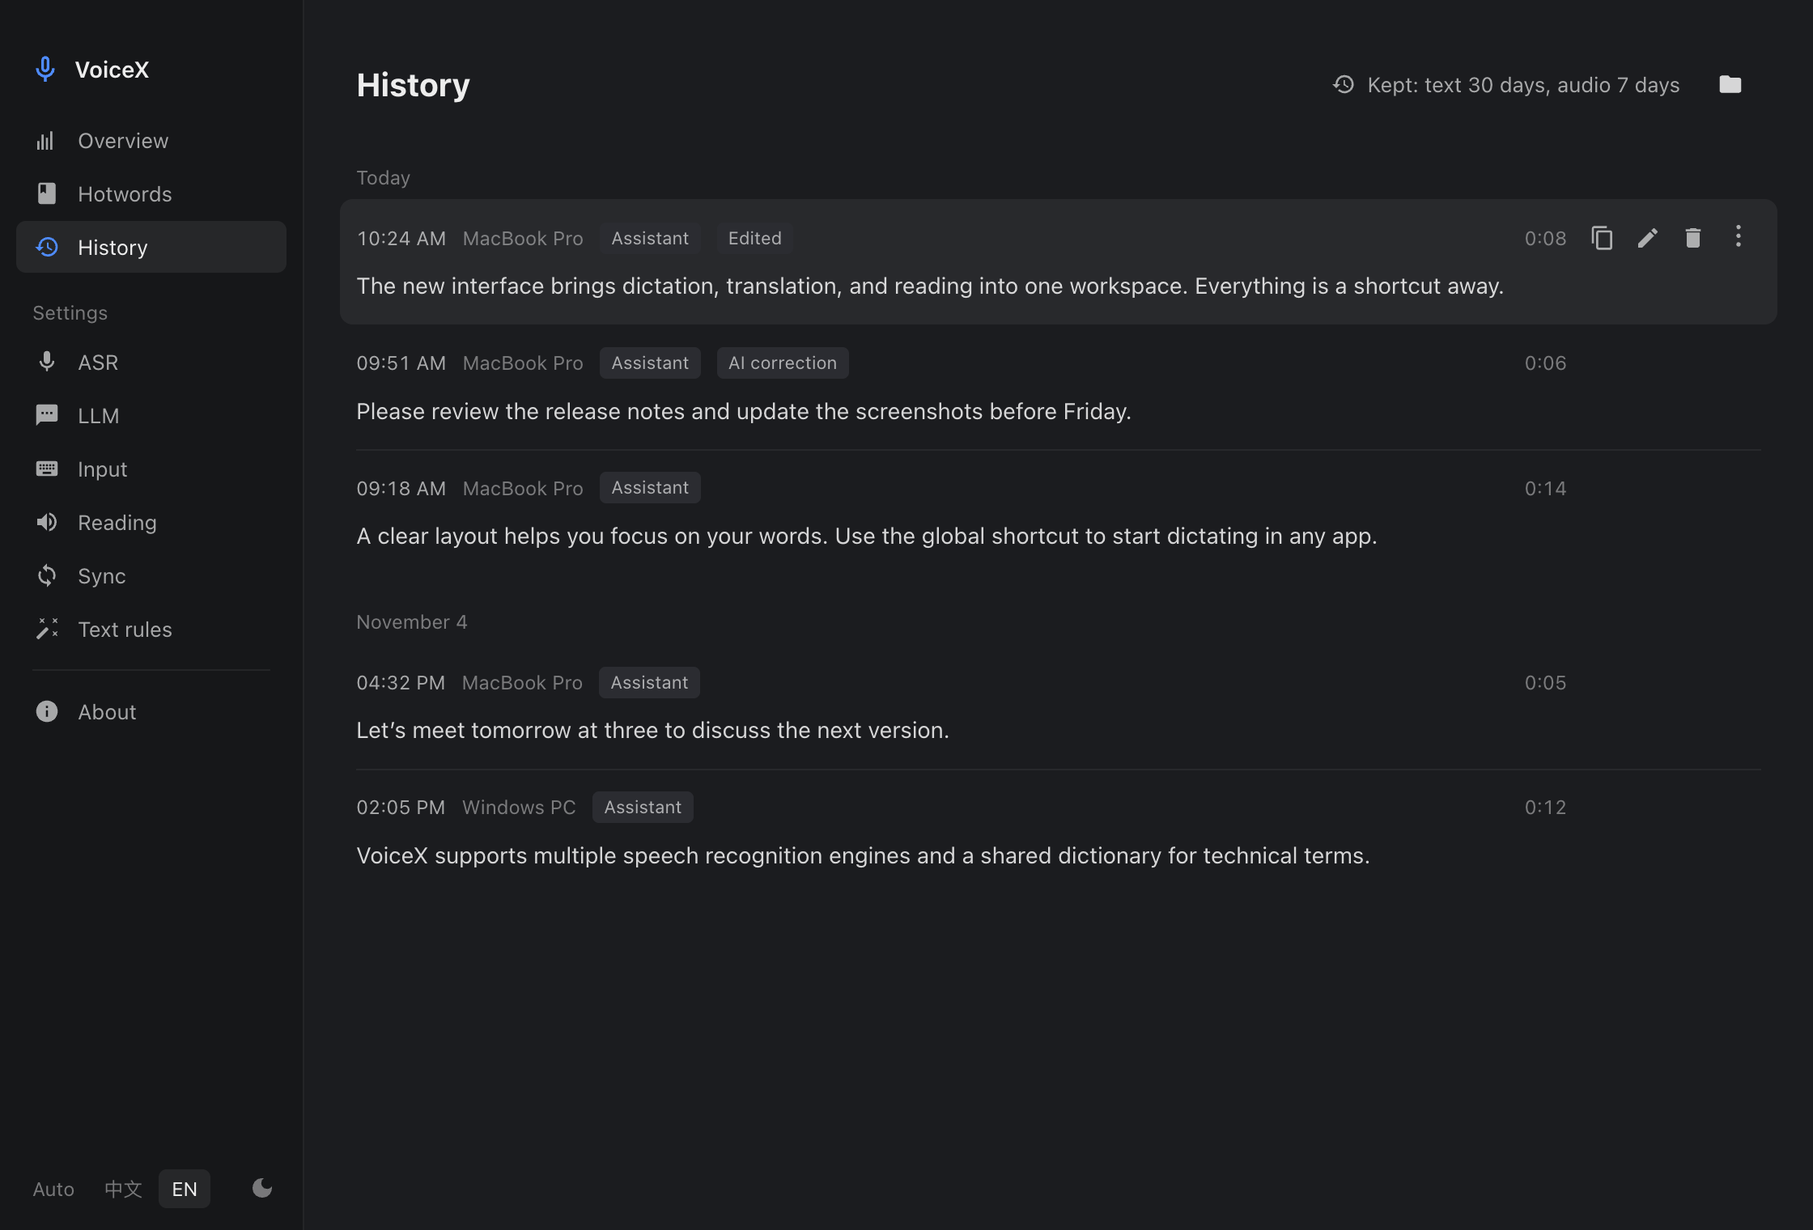
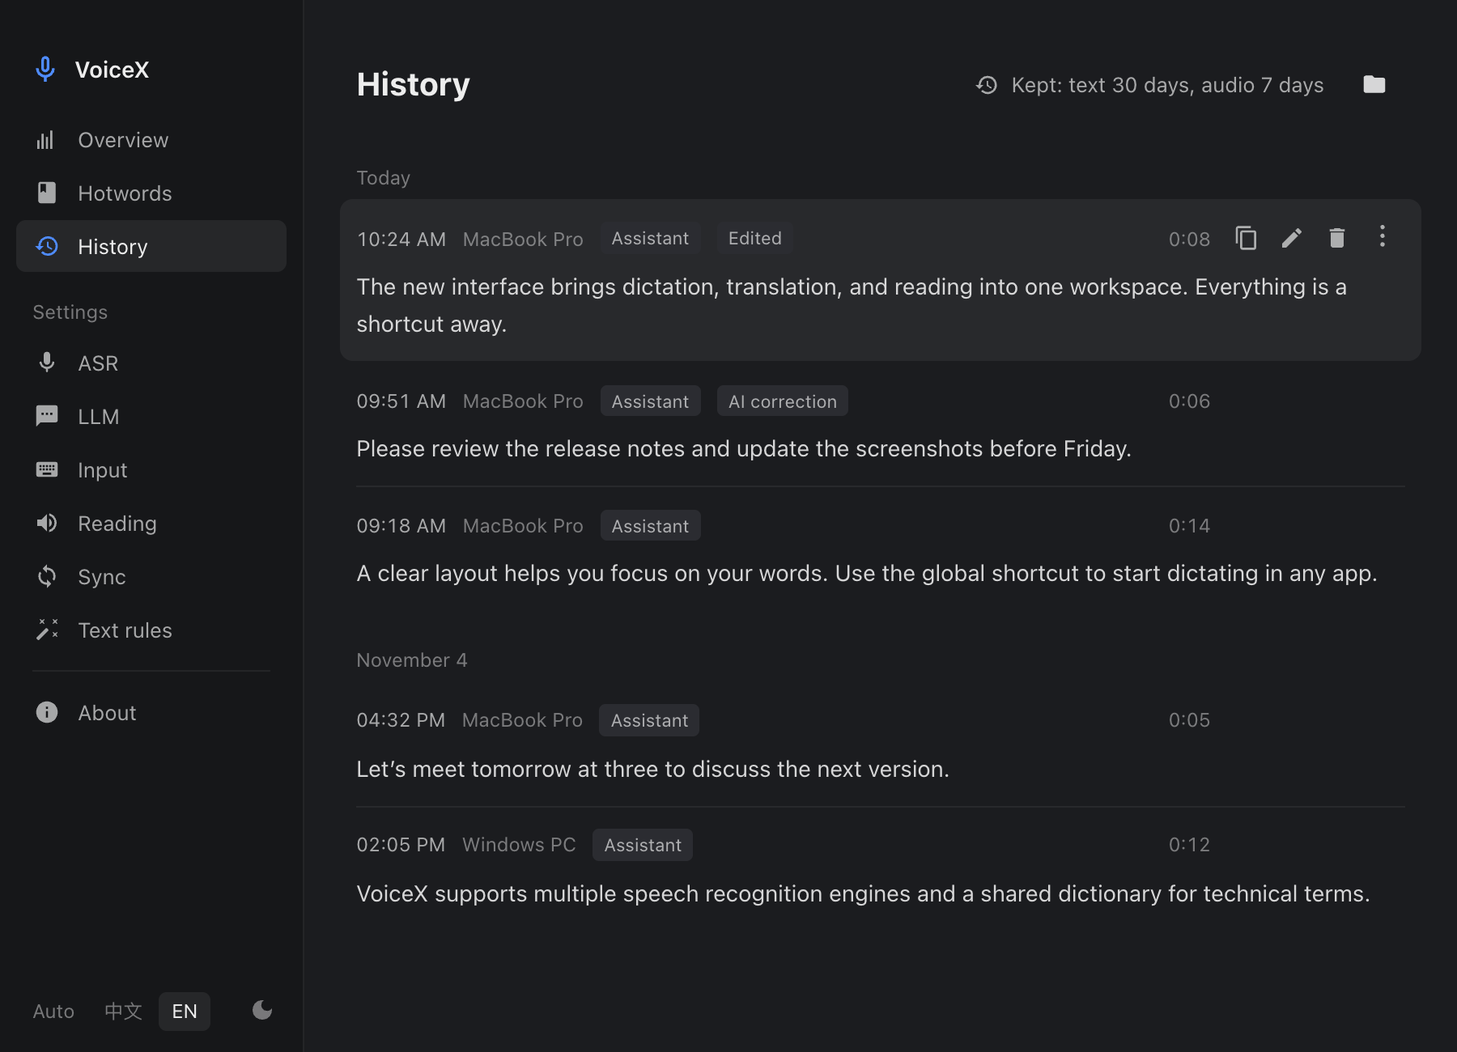
docs: capture README screenshots at the default window size in both themes
Capture main-window pages at the app's default 900x650 instead of a wider
1120px viewport that left empty space beside and below the content. Each
page now has a light and a dark image, and the READMEs use <picture> so
GitHub shows the one matching the reader's theme. History gets a light
shot alongside its dark one. The HUD, caption, and drag helper look the
same in both themes and stay single.

diff --git a/scripts/screenshots/capture.js b/scripts/screenshots/capture.js
@@ -1,7 +1,7 @@
 // Run with playwright-cli run-code --filename=scripts/screenshots/capture.js
 async (page) => {
   const context = await page.context().browser().newContext({
-    viewport: { width: 1120, height: 760 }, deviceScaleFactor: 2,
+    viewport: { width: 900, height: 650 }, deviceScaleFactor: 2,
     locale: 'en-US', timezoneId: 'Asia/Singapore', reducedMotion: 'reduce',
   })
   // Only the local fixture may receive requests, including fonts and images.
@@ -15,30 +15,66 @@ async (page) => {
   capturePage.on('pageerror', error => errors.push(String(error)))
   capturePage.on('console', message => { if (message.type() === 'error') errors.push(message.text()) })
   try {
+    // The app's default window size (src-tauri/tauri.conf.json), so README
+    // shots show what a first launch shows.
+    const WINDOW = { width: 900, height: 650 }
+    const THEMES = [['light', ''], ['dark', '-dark']]
+    // Open a main-window route in one theme and wait until it has settled.
+    const openPage = async (path, lang, theme) => {
+      await capturePage.setViewportSize(WINDOW)
+      await capturePage.goto(`http://127.0.0.1:1523/${path}${path.includes('?') ? '&' : '?'}lang=${lang}&theme=${theme}`)
+      await capturePage.locator(`html[lang="${lang === 'zh' ? 'zh-CN' : 'en-US'}"][data-theme="${theme}"]`).waitFor()
+      await capturePage.evaluate(() => document.fonts.ready)
+    }
     for (const lang of ['zh', 'en']) {
-      for (const [route, filename, theme] of [
-        ['overview', 'main-window', 'light'],
-        ['history', 'history-dark', 'dark'],
-        ['asr-settings', 'asr-settings', 'light'],
-        ['input-settings', 'input-settings', 'light'],
-        ['reading-settings', 'reading-settings', 'light'],
-      ]) {
-        await capturePage.setViewportSize({ width: 1120, height: route === 'reading-settings' ? 650 : route === 'input-settings' ? 700 : 760 })
-        await capturePage.goto(`http://127.0.0.1:1523/${route}?lang=${lang}&theme=${theme}`)
-        await capturePage.locator(`html[lang="${lang === 'zh' ? 'zh-CN' : 'en-US'}"][data-theme="${theme}"]`).waitFor()
-        await capturePage.locator('.page-title').waitFor()
-        await capturePage.evaluate(() => document.fonts.ready)
-        // Wait for Vue's route transition and initial backend fixture reads.
-        await capturePage.waitForTimeout(400)
-        if (route === 'history') {
-          await capturePage.locator('.list-text').first().hover({ position: { x: 20, y: 8 } })
-          await capturePage.waitForTimeout(200)
-        } else {
-          await capturePage.mouse.move(0, 0)
+      for (const [theme, suffix] of THEMES) {
+        for (const [route, filename] of [
+          ['overview', 'main-window'],
+          ['history', 'history'],
+          ['asr-settings', 'asr-settings'],
+          ['input-settings', 'input-settings'],
+          ['reading-settings', 'reading-settings'],
+        ]) {
+          await openPage(route, lang, theme)
+          await capturePage.locator('.page-title').waitFor()
+          // Wait for Vue's route transition and initial backend fixture reads.
+          await capturePage.waitForTimeout(400)
+          if (route === 'history') {
+            await capturePage.locator('.list-text').first().hover({ position: { x: 20, y: 8 } })
+            await capturePage.waitForTimeout(200)
+          } else {
+            await capturePage.mouse.move(0, 0)
+          }
+          if (errors.length) throw new Error(errors.join('\n'))
+          await capturePage.screenshot({ path: `assets/screenshots/${lang}/${filename}${suffix}.png`, animations: 'disabled' })
         }
+
+        await openPage('reading-settings', lang, theme)
+        const translation = capturePage.locator('.settings-section').filter({
+          has: capturePage.getByRole('heading', { name: lang === 'zh' ? /^翻译并朗读/ : /^Translate and read/ }),
+        })
+        await translation.waitFor()
+        await translation.evaluate(section => {
+          const scroller = document.querySelector('.content-body')
+          scroller.scrollTop += section.getBoundingClientRect().top - 24
+        })
+        await capturePage.waitForTimeout(400)
+        await capturePage.mouse.move(0, 0)
         if (errors.length) throw new Error(errors.join('\n'))
-        await capturePage.screenshot({ path: `assets/screenshots/${lang}/${filename}.png`, animations: 'disabled' })
+        await capturePage.screenshot({ path: `assets/screenshots/${lang}/translate-reading-settings${suffix}.png`, animations: 'disabled' })
+
+        // First launch: the fixture reports permissions missing, so Overview
+        // shows its setup card. Only the card is captured: it reads at README
+        // width and does not depend on the rest of the Overview layout.
+        await openPage('overview?perm=missing', lang, theme)
+        await capturePage.locator('.permission-card').waitFor()
+        await capturePage.waitForTimeout(400)
+        await capturePage.mouse.move(0, 0)
+        if (errors.length) throw new Error(errors.join('\n'))
+        await capturePage.locator('.permission-card').screenshot({ path: `assets/screenshots/${lang}/permission-setup${suffix}.png`, animations: 'disabled' })
       }
+
+      // The HUD, caption, and drag helper have one look in both themes.
       // Match STREAM_HUD_WIDTH / STREAM_HUD_HEIGHT in src-tauri/src/hud/window.rs.
       await capturePage.setViewportSize({ width: 256, height: 100 })
       await capturePage.goto(`http://127.0.0.1:1523/src/hud/index.html?lang=${lang}`)
@@ -46,18 +82,6 @@ async (page) => {
       await capturePage.locator('#textArea').filter({ hasText: 'VoiceX' }).waitFor()
       if (errors.length) throw new Error(errors.join('\n'))
       await capturePage.screenshot({ path: `assets/screenshots/${lang}/hud-window.png`, animations: 'disabled' })
-
-      // First launch: the fixture reports permissions missing, so Overview
-      // shows its setup card. Only the card is captured: it reads at README
-      // width and does not depend on the rest of the Overview layout.
-      await capturePage.setViewportSize({ width: 1120, height: 600 })
-      await capturePage.goto(`http://127.0.0.1:1523/overview?lang=${lang}&theme=light&perm=missing`)
-      await capturePage.locator('.permission-card').waitFor()
-      await capturePage.evaluate(() => document.fonts.ready)
-      await capturePage.waitForTimeout(400)
-      await capturePage.mouse.move(0, 0)
-      if (errors.length) throw new Error(errors.join('\n'))
-      await capturePage.locator('.permission-card').screenshot({ path: `assets/screenshots/${lang}/permission-setup.png`, animations: 'disabled' })
 
       // The drag helper floats beside System Settings in its own transparent
       // window. Match WIDTH / HEIGHT in src-tauri/src/permissions/guide.rs.
@@ -69,21 +93,9 @@ async (page) => {
       if (errors.length) throw new Error(errors.join('\n'))
       await capturePage.screenshot({ path: `assets/screenshots/${lang}/permission-guide.png`, animations: 'disabled', omitBackground: true })
 
+      // The caption sizes itself from the screen it starts on, not from the
+      // main window; this starting viewport stands in for a laptop screen.
       await capturePage.setViewportSize({ width: 1120, height: 650 })
-      await capturePage.goto(`http://127.0.0.1:1523/reading-settings?lang=${lang}`)
-      const translation = capturePage.locator('.settings-section').filter({
-        has: capturePage.getByRole('heading', { name: lang === 'zh' ? /^翻译并朗读/ : /^Translate and read/ }),
-      })
-      await translation.waitFor()
-      await capturePage.evaluate(() => document.fonts.ready)
-      await translation.evaluate(section => {
-        const scroller = document.querySelector('.content-body')
-        scroller.scrollTop += section.getBoundingClientRect().top - 24
-      })
-      await capturePage.waitForTimeout(400)
-      if (errors.length) throw new Error(errors.join('\n'))
-      await capturePage.screenshot({ path: `assets/screenshots/${lang}/translate-reading-settings.png`, animations: 'disabled' })
-
       await capturePage.goto(`http://127.0.0.1:1523/src/hud/index.html?lang=${lang}&hud=reading`)
       await capturePage.locator('body.caption-mode:not(.hud-loading)').waitFor()
       await capturePage.locator('#textArea').filter({ hasText: lang === 'zh' ? '选中一段文字' : 'Select text' }).waitFor()
@@ -96,7 +108,7 @@ async (page) => {
       if (errors.length) throw new Error(errors.join('\n'))
       await capturePage.screenshot({ path: `assets/screenshots/${lang}/reading-caption.png`, animations: 'disabled', omitBackground: true })
     }
-    console.log('Captured 20 bilingual screenshots; no browser errors.')
+    console.log('Captured 34 bilingual screenshots; no browser errors.')
   } finally {
     await context.close()
   }

diff --git a/README.en.md b/README.en.md
@@ -3,7 +3,10 @@
 English | [中文](./README.md)
 
 <p align="center">
-  <img src="assets/screenshots/en/main-window.png" alt="VoiceX light Overview with real dictation and reading statistics" width="880" />
+  <picture>
+    <source media="(prefers-color-scheme: dark)" srcset="assets/screenshots/en/main-window-dark.png" />
+    <img src="assets/screenshots/en/main-window.png" alt="VoiceX Overview with real dictation and reading statistics" width="900" />
+  </picture>
 </p>
 
 <p align="center">
@@ -52,7 +55,10 @@ Run `VoiceX_x.y.z_x64-setup.exe` (or the `.msi`). If SmartScreen warns about an 
 VoiceX needs system permissions to hear you and type for you. While any are missing, Overview shows a **Finish setting up VoiceX** card and the Overview item in the sidebar gets an orange dot:
 
 <p align="center">
-  <img src="assets/screenshots/en/permission-setup.png" alt="Overview permission card listing Microphone, Accessibility and Input Monitoring" width="760" />
+  <picture>
+    <source media="(prefers-color-scheme: dark)" srcset="assets/screenshots/en/permission-setup-dark.png" />
+    <img src="assets/screenshots/en/permission-setup.png" alt="Overview permission card listing Microphone, Accessibility and Input Monitoring" width="648" />
+  </picture>
 </p>
 
 On macOS VoiceX needs three permissions:
@@ -98,7 +104,10 @@ One hotkey, three gestures:
 The hold threshold and double-tap window are adjustable. Press **Escape** at any time to cancel and discard.
 
 <p align="center">
-  <img src="assets/screenshots/en/input-settings.png" alt="VoiceX Input settings with hotkeys, gesture timing, and microphone options" width="880" />
+  <picture>
+    <source media="(prefers-color-scheme: dark)" srcset="assets/screenshots/en/input-settings-dark.png" />
+    <img src="assets/screenshots/en/input-settings.png" alt="VoiceX Input settings with hotkeys, gesture timing, and microphone options" width="900" />
+  </picture>
 </p>
 
 **Mute while recording** (optional, off by default): enable it under Input → Microphone to mute the default system output while you dictate and restore it afterwards. Only the mute switch changes, not the volume, and players keep playing, so music no longer leaks into the microphone. Devices that were already muted are left alone; outputs that cannot be muted by software (such as HDMI on macOS) are flagged on the settings page.
@@ -121,13 +130,19 @@ Engines that report progress show each sentence as a large caption:
 </p>
 
 <p align="center">
-  <img src="assets/screenshots/en/reading-settings.png" alt="VoiceX Reading settings with hotkeys, speech engine, and voice selection" width="880" />
+  <picture>
+    <source media="(prefers-color-scheme: dark)" srcset="assets/screenshots/en/reading-settings-dark.png" />
+    <img src="assets/screenshots/en/reading-settings.png" alt="VoiceX Reading settings with hotkeys, speech engine, and voice selection" width="900" />
+  </picture>
 </p>
 
 Translate-and-read has its own target language, LLM, and voice options, plus switches for copying translations, keeping history, and showing captions:
 
 <p align="center">
-  <img src="assets/screenshots/en/translate-reading-settings.png" alt="VoiceX translate-and-read settings with language, model, voice, and caption controls" width="880" />
+  <picture>
+    <source media="(prefers-color-scheme: dark)" srcset="assets/screenshots/en/translate-reading-settings-dark.png" />
+    <img src="assets/screenshots/en/translate-reading-settings.png" alt="VoiceX translate-and-read settings with language, model, voice, and caption controls" width="900" />
+  </picture>
 </p>
 
 | | Detail |
@@ -185,7 +200,10 @@ The output defaults to the input filename plus `.mp3` (such as `notes.md.mp3`); 
 Choose an engine and model and adjust its parameters on the **ASR** page; each parameter has a help icon next to it.
 
 <p align="center">
-  <img src="assets/screenshots/en/asr-settings.png" alt="VoiceX ASR settings with a demo Soniox configuration and inline help" width="880" />
+  <picture>
+    <source media="(prefers-color-scheme: dark)" srcset="assets/screenshots/en/asr-settings-dark.png" />
+    <img src="assets/screenshots/en/asr-settings.png" alt="VoiceX ASR settings with a demo Soniox configuration and inline help" width="900" />
+  </picture>
 </p>
 
 | Engine | Mode | Notes |
@@ -274,7 +292,10 @@ Optionally have an LLM correct or translate the recognized text. Choose a provid
 ## History & statistics
 
 <p align="center">
-  <img src="assets/screenshots/en/history-dark.png" alt="VoiceX dark History with demo dictations grouped by date" width="880" />
+  <picture>
+    <source media="(prefers-color-scheme: dark)" srcset="assets/screenshots/en/history-dark.png" />
+    <img src="assets/screenshots/en/history.png" alt="VoiceX History with demo dictations grouped by date" width="900" />
+  </picture>
 </p>
 
 - Browse every dictation by date: replay audio, copy, view details, and compare the original recognition with the LLM-corrected text.

diff --git a/README.md b/README.md
@@ -3,7 +3,10 @@
 [English](./README.en.md) | 中文
 
 <p align="center">
-  <img src="assets/screenshots/zh/main-window.png" alt="VoiceX 浅色概览：听写与朗读的真实使用统计" width="880" />
+  <picture>
+    <source media="(prefers-color-scheme: dark)" srcset="assets/screenshots/zh/main-window-dark.png" />
+    <img src="assets/screenshots/zh/main-window.png" alt="VoiceX 概览：听写与朗读的真实使用统计" width="900" />
+  </picture>
 </p>
 
 <p align="center">
@@ -52,7 +55,10 @@ Intel Mac 暂无安装包，可[从源码构建](./docs/development.md)。
 VoiceX 需要系统权限才能听到你的声音并替你输入。缺少权限时，概览页顶部会出现「完成 VoiceX 的权限设置」卡片，侧栏的「概览」旁也会显示一个橙色圆点：
 
 <p align="center">
-  <img src="assets/screenshots/zh/permission-setup.png" alt="概览页的权限设置卡片：麦克风、辅助功能、输入监控" width="760" />
+  <picture>
+    <source media="(prefers-color-scheme: dark)" srcset="assets/screenshots/zh/permission-setup-dark.png" />
+    <img src="assets/screenshots/zh/permission-setup.png" alt="概览页的权限设置卡片：麦克风、辅助功能、输入监控" width="648" />
+  </picture>
 </p>
 
 macOS 上需要三项权限：
@@ -98,7 +104,10 @@ Windows 不需要额外授权。只有当系统关闭了麦克风权限时才会
 长按阈值和双击间隔均可调。录音期间按 **Escape** 可随时取消并丢弃。
 
 <p align="center">
-  <img src="assets/screenshots/zh/input-settings.png" alt="VoiceX 输入设置：热键、交互时序和麦克风" width="880" />
+  <picture>
+    <source media="(prefers-color-scheme: dark)" srcset="assets/screenshots/zh/input-settings-dark.png" />
+    <img src="assets/screenshots/zh/input-settings.png" alt="VoiceX 输入设置：热键、交互时序和麦克风" width="900" />
+  </picture>
 </p>
 
 **录音时静音**（可选，默认关闭）：在「输入 → 麦克风」开启后，录音期间会把系统默认输出静音，结束后恢复。只切换静音开关、不改音量，播放器继续播放，音乐不会被录进去。本来就静音的设备不受影响；无法软件静音的设备（如 macOS 上的 HDMI 输出）会在设置页提示。
@@ -121,13 +130,19 @@ Windows 不需要额外授权。只有当系统关闭了麦克风权限时才会
 </p>
 
 <p align="center">
-  <img src="assets/screenshots/zh/reading-settings.png" alt="VoiceX 朗读设置：热键、语音引擎和音色" width="880" />
+  <picture>
+    <source media="(prefers-color-scheme: dark)" srcset="assets/screenshots/zh/reading-settings-dark.png" />
+    <img src="assets/screenshots/zh/reading-settings.png" alt="VoiceX 朗读设置：热键、语音引擎和音色" width="900" />
+  </picture>
 </p>
 
 翻译朗读可以单独选择目标语言、大模型和译文音色，并设置是否复制译文、保存历史或显示字幕：
 
 <p align="center">
-  <img src="assets/screenshots/zh/translate-reading-settings.png" alt="VoiceX 翻译朗读设置：语言、模型、音色和字幕开关" width="880" />
+  <picture>
+    <source media="(prefers-color-scheme: dark)" srcset="assets/screenshots/zh/translate-reading-settings-dark.png" />
+    <img src="assets/screenshots/zh/translate-reading-settings.png" alt="VoiceX 翻译朗读设置：语言、模型、音色和字幕开关" width="900" />
+  </picture>
 </p>
 
 | | 说明 |
@@ -185,7 +200,10 @@ cargo run --manifest-path src-tauri/Cargo.toml --bin voicex-tts -- notes.md --tr
 在 **ASR** 页切换引擎、选择模型并调整参数，参数说明可通过旁边的帮助图标查看。
 
 <p align="center">
-  <img src="assets/screenshots/zh/asr-settings.png" alt="VoiceX 语音识别设置：Soniox 示例配置与就地帮助" width="880" />
+  <picture>
+    <source media="(prefers-color-scheme: dark)" srcset="assets/screenshots/zh/asr-settings-dark.png" />
+    <img src="assets/screenshots/zh/asr-settings.png" alt="VoiceX 语音识别设置：Soniox 示例配置与就地帮助" width="900" />
+  </picture>
 </p>
 
 | 引擎 | 方式 | 说明 |
@@ -274,7 +292,10 @@ curl -L -C - --retry 8 -o ~/models/qwen3-asr-0.6b/model.safetensors "https://hug
 ## 历史记录与统计
 
 <p align="center">
-  <img src="assets/screenshots/zh/history-dark.png" alt="VoiceX 深色历史页：按日期分组的示例听写记录" width="880" />
+  <picture>
+    <source media="(prefers-color-scheme: dark)" srcset="assets/screenshots/zh/history-dark.png" />
+    <img src="assets/screenshots/zh/history.png" alt="VoiceX 历史页：按日期分组的示例听写记录" width="900" />
+  </picture>
 </p>
 
 - 按日期分组浏览全部听写，可回放录音、复制、查看详情，并对比原始识别结果与大模型纠正结果。

diff --git a/scripts/screenshots/README.md b/scripts/screenshots/README.md
@@ -40,24 +40,29 @@ npx --package @playwright/cli playwright-cli -s=readme run-code --filename=scrip
 npx --package @playwright/cli playwright-cli -s=readme close
 ```
 
-The script writes 20 PNGs under `assets/screenshots/{zh,en}/` at 2× pixel density.
-It uses light Overview/settings pages, dark History, and the native stream HUD's
-256 × 100 logical size. The first-launch images are the Overview permission card
-(the fixture reports permissions missing) and the macOS drag helper at its
+The script writes 34 PNGs under `assets/screenshots/{zh,en}/` at 2× pixel density.
+Main-window pages are captured at the app's default 900 × 650 window size, each
+in light (`<name>.png`) and dark (`<name>-dark.png`); the READMEs use `<picture>`
+so GitHub shows the one matching the reader's theme. The native stream HUD uses
+its 256 × 100 logical size. The first-launch images are the Overview permission
+card (the fixture reports permissions missing) and the macOS drag helper at its
 420 × 160 window size with a transparent background; System Settings itself is
 not captured. Reading examples include the translate-and-read settings
 and a transparent caption HUD driven by synthetic `state:reading` / `state:caption`
 events. The caption viewport uses the bounds requested by the actual HUD code.
+The HUD, caption, and drag helper look the same in both themes and are captured once.
 Review every image before publishing. The images show
 frontend content without a native title bar; they do not demonstrate live ASR,
 TTS, or Windows validation.
 
-脚本会在 `assets/screenshots/{zh,en}/` 写入 20 张 2 倍像素密度的 PNG：浅色概览和设置页、
-深色历史页，以及原生流式 HUD 的 256 × 100 逻辑尺寸。首次启动的两张图分别是概览中的
-权限卡片（替身报告权限缺失）和 macOS 拖拽助手（420 × 160 窗口尺寸、透明背景）；
-不截取系统设置本身。朗读示例包括翻译朗读设置，
+脚本会在 `assets/screenshots/{zh,en}/` 写入 34 张 2 倍像素密度的 PNG。主窗口页面按应用默认的
+900 × 650 窗口尺寸截取，浅色（`<name>.png`）和深色（`<name>-dark.png`）各一张；README 用
+`<picture>` 让 GitHub 按读者的主题显示对应的一张。原生流式 HUD 使用 256 × 100 逻辑尺寸。
+首次启动的两张图分别是概览中的权限卡片（替身报告权限缺失）和 macOS 拖拽助手（420 × 160
+窗口尺寸、透明背景）；不截取系统设置本身。朗读示例包括翻译朗读设置，
 以及通过模拟 `state:reading` / `state:caption` 事件驱动的透明字幕 HUD；字幕取景尺寸
-来自实际 HUD 代码请求的窗口尺寸。发布前应逐张检查。
+来自实际 HUD 代码请求的窗口尺寸。HUD、字幕和拖拽助手在两种主题下外观相同，只截一张。
+发布前应逐张检查。
 截图仅展示前端内容，不含原生标题栏，也不代表真实 ASR、TTS 或 Windows 验证。
 
 For manual inspection, use `?lang=zh` or `?lang=en` and optionally `&theme=dark`
